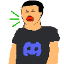
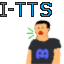
起動構成追加、アイコン変更、ファイル削除の不具合を修正

diff --git a/core/src/main/java/dev/felnull/itts/core/DirectoryLock.java b/core/src/main/java/dev/felnull/itts/core/DirectoryLock.java
@@ -32,7 +32,7 @@ public class DirectoryLock implements ITTSRuntimeUse {
      * ロックを実行
      */
     protected void lock() {
-        if (!LOCK_FILE.delete()) {
+        if (LOCK_FILE.exists() && !LOCK_FILE.delete()) {
             throw new RuntimeException("Failed to delete old lock file");
         }
 
@@ -58,7 +58,7 @@ public class DirectoryLock implements ITTSRuntimeUse {
                 // ファイルロック用アウトプットストリームを閉じることに失敗した場合も諦める
             }
 
-            if (!LOCK_FILE.delete()) {
+            if (LOCK_FILE.exists() && !LOCK_FILE.delete()) {
                 throw new RuntimeException("Failed to delete lock file");
             }
         }));

diff --git a/core/src/main/java/dev/felnull/itts/core/cache/LocalCache.java b/core/src/main/java/dev/felnull/itts/core/cache/LocalCache.java
@@ -89,7 +89,7 @@ public class LocalCache implements ITTSRuntimeUse {
      */
     protected void dispose() {
         destroy.set(true);
-        if (file.delete()) {
+        if (file.exists() && file.delete()) {
             throw new RuntimeException("Failed to delete file");
         }
     }
